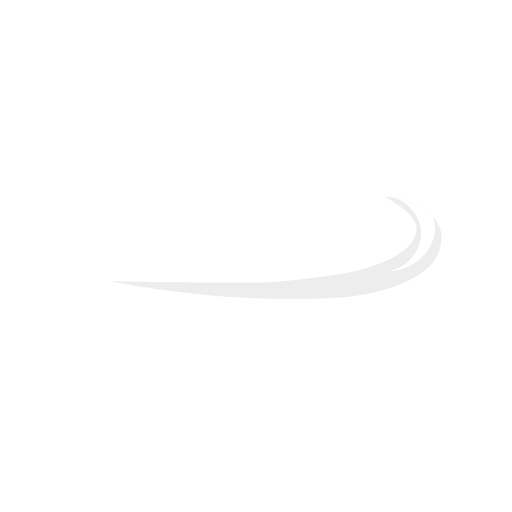
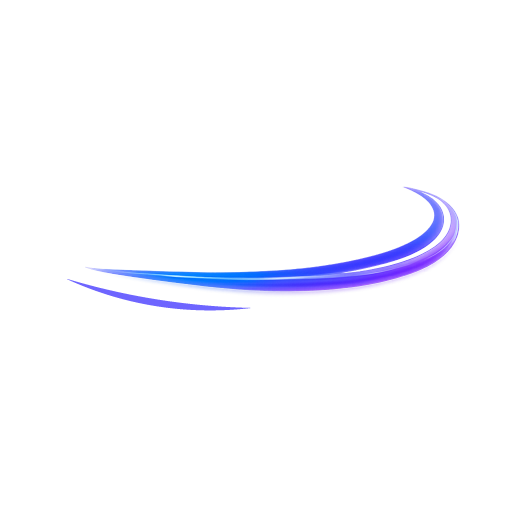
load hero based on weapon

Changed region(s): [[0.1875, 0.375, 0.9062, 0.625], [0.125, 0.5312, 0.1875, 0.5625], [0.7812, 0.3438, 0.8125, 0.375]]

diff --git a/src/scenes/Game.js b/src/scenes/Game.js
@@ -24,21 +24,91 @@ export class Game extends Phaser.Scene {
 
         this.load.image("ground", "/assets/stages/ground.png");
 
-        this.load.image("hero", "/assets/mc/mc_idle.png");
+        // load hero
+        // default hero
+        this.load.image("hero-idle-default", "/assets/mc/mc_idle.png");
+        this.load.spritesheet("hero-run-default", "/assets/mc/mc_run.png", {
+            frameWidth: 514,
+            frameHeight: 514,
+        });
+        this.load.spritesheet("hero-jump-default", "/assets/mc/mc_jump.png", {
+            frameWidth: 514,
+            frameHeight: 514,
+        });
+        this.load.spritesheet(
+            "hero-attack-default",
+            "/assets/mc/mc_attack.png",
+            {
+                frameWidth: 514,
+                frameHeight: 514,
+            },
+        );
+        this.load.image(
+            "attack-effect-default",
+            "/assets/mc/attact_effect.png",
+        );
 
-        this.load.spritesheet("hero-run", "/assets/mc/mc_run.png", {
-            frameWidth: 514,
-            frameHeight: 514,
-        });
-        this.load.spritesheet("hero-jump", "/assets/mc/mc_jump.png", {
-            frameWidth: 514,
-            frameHeight: 514,
-        });
-        this.load.spritesheet("hero-attack", "/assets/mc/mc_attack.png", {
-            frameWidth: 514,
-            frameHeight: 514,
-        });
-        this.load.image("attack-effect", "/assets/mc/attact_effect.png");
+        // weapon1
+        this.load.image("hero-idle-weapon1", "/assets/mc/weapon1/mc_idle.png");
+        this.load.spritesheet(
+            "hero-run-weapon1",
+            "/assets/mc/weapon1/mc_run.png",
+            {
+                frameWidth: 514,
+                frameHeight: 514,
+            },
+        );
+        this.load.spritesheet(
+            "hero-jump-weapon1",
+            "/assets/mc/weapon1/mc_jump.png",
+            {
+                frameWidth: 514,
+                frameHeight: 514,
+            },
+        );
+        this.load.spritesheet(
+            "hero-attack-weapon1",
+            "/assets/mc/weapon1/mc_attack.png",
+            {
+                frameWidth: 514,
+                frameHeight: 514,
+            },
+        );
+        this.load.image(
+            "attack-effect-weapon1",
+            "/assets/mc/weapon1/attact_effect.png",
+        );
+
+        // weapon2
+        this.load.image("hero-idle-weapon2", "/assets/mc/weapon2/mc_idle.png");
+        this.load.spritesheet(
+            "hero-run-weapon2",
+            "/assets/mc/weapon2/mc_run.png",
+            {
+                frameWidth: 514,
+                frameHeight: 514,
+            },
+        );
+        this.load.spritesheet(
+            "hero-jump-weapon2",
+            "/assets/mc/weapon2/mc_jump.png",
+            {
+                frameWidth: 514,
+                frameHeight: 514,
+            },
+        );
+        this.load.spritesheet(
+            "hero-attack-weapon2",
+            "/assets/mc/weapon2/mc_attack.png",
+            {
+                frameWidth: 514,
+                frameHeight: 514,
+            },
+        );
+        this.load.image(
+            "attack-effect-weapon2",
+            "/assets/mc/weapon2/attact_effect.png",
+        );
     }
 
     create() {
@@ -51,6 +121,7 @@ export class Game extends Phaser.Scene {
             jump: false,
             attack: false,
         };
+        this.currentWeapon = "default";
 
         // showIntroUI(this);
         showNumerationUI();
@@ -115,8 +186,22 @@ export class Game extends Phaser.Scene {
         this.groundTop = groundTop;
     }
 
+    updateHeroWeapon() {
+        this.currentWeapon = gameState.weapon || "default";
+
+        this.hero.setTexture(`hero-idle-${this.currentWeapon}`);
+
+        this.createHeroAnimations();
+
+        this.setHeroIdle();
+    }
+
     createHero() {
-        this.hero = this.physics.add.sprite(150, this.groundTop, "hero");
+        this.hero = this.physics.add.sprite(
+            150,
+            this.groundTop,
+            "hero-idle-default",
+        );
         this.heroGroundY = this.groundTop;
         this.heroIsJumping = false;
 
@@ -143,45 +228,47 @@ export class Game extends Phaser.Scene {
     }
 
     createHeroAnimations() {
-        if (!this.anims.exists("hero-run")) {
-            this.anims.create({
-                key: "hero-run",
-                frames: this.anims.generateFrameNumbers("hero-run", {
-                    start: 0,
-                    end: 7,
-                }),
-                frameRate: 8,
-                repeat: -1,
-            });
-        }
+        const weapon = this.currentWeapon;
 
-        if (!this.anims.exists("hero-jump")) {
-            this.anims.create({
-                key: "hero-jump",
-                frames: this.anims.generateFrameNumbers("hero-jump", {
-                    start: 0,
-                    end: 4,
-                }),
-                frameRate: 10,
-                repeat: 0,
-            });
-        }
+        ["hero-run", "hero-jump", "hero-attack"].forEach((key) => {
+            if (this.anims.exists(key)) {
+                this.anims.remove(key);
+            }
+        });
 
-        if (!this.anims.exists("hero-attack")) {
-            this.anims.create({
-                key: "hero-attack",
-                frames: this.anims.generateFrameNumbers("hero-attack", {
-                    start: 0,
-                    end: 3,
-                }),
-                frameRate: 12,
-                repeat: 0,
-            });
-        }
+        this.anims.create({
+            key: "hero-run",
+            frames: this.anims.generateFrameNumbers(`hero-run-${weapon}`, {
+                start: 0,
+                end: 7,
+            }),
+            frameRate: 8,
+            repeat: -1,
+        });
+
+        this.anims.create({
+            key: "hero-jump",
+            frames: this.anims.generateFrameNumbers(`hero-jump-${weapon}`, {
+                start: 0,
+                end: 4,
+            }),
+            frameRate: 10,
+            repeat: 0,
+        });
+
+        this.anims.create({
+            key: "hero-attack",
+            frames: this.anims.generateFrameNumbers(`hero-attack-${weapon}`, {
+                start: 0,
+                end: 3,
+            }),
+            frameRate: 6,
+            repeat: 0,
+        });
     }
 
     setHeroIdle() {
-        this.hero.setTexture("hero");
+        this.hero.setTexture(`hero-idle-${this.currentWeapon}`);
         this.hero.setDisplaySize(HERO_DISPLAY_SIZE, HERO_DISPLAY_SIZE);
         this.hero.body?.setSize(this.hero.width, this.hero.height);
 
@@ -364,7 +451,7 @@ export class Game extends Phaser.Scene {
         );
 
         const effect = this.add
-            .image(startX, startY, "attack-effect")
+            .image(startX, startY, `attack-effect-${this.currentWeapon}`)
             .setDisplaySize(ATTACK_EFFECT_SIZE, ATTACK_EFFECT_SIZE)
             .setRotation(angle)
             .setDepth(20);

diff --git a/src/ui/stage/NumerationUI.js b/src/ui/stage/NumerationUI.js
@@ -190,9 +190,10 @@ export function showNumerationUI() {
     */
 
     function bindResultEvents() {
+        const scene = getScene();
         document.querySelector(".btn-next").onclick = () => {
-            // showBattleUI(getScene());
-            showEvaluationUI();
+            scene.updateHeroWeapon();
+            showBattleUI(getScene());
         };
     }
 }